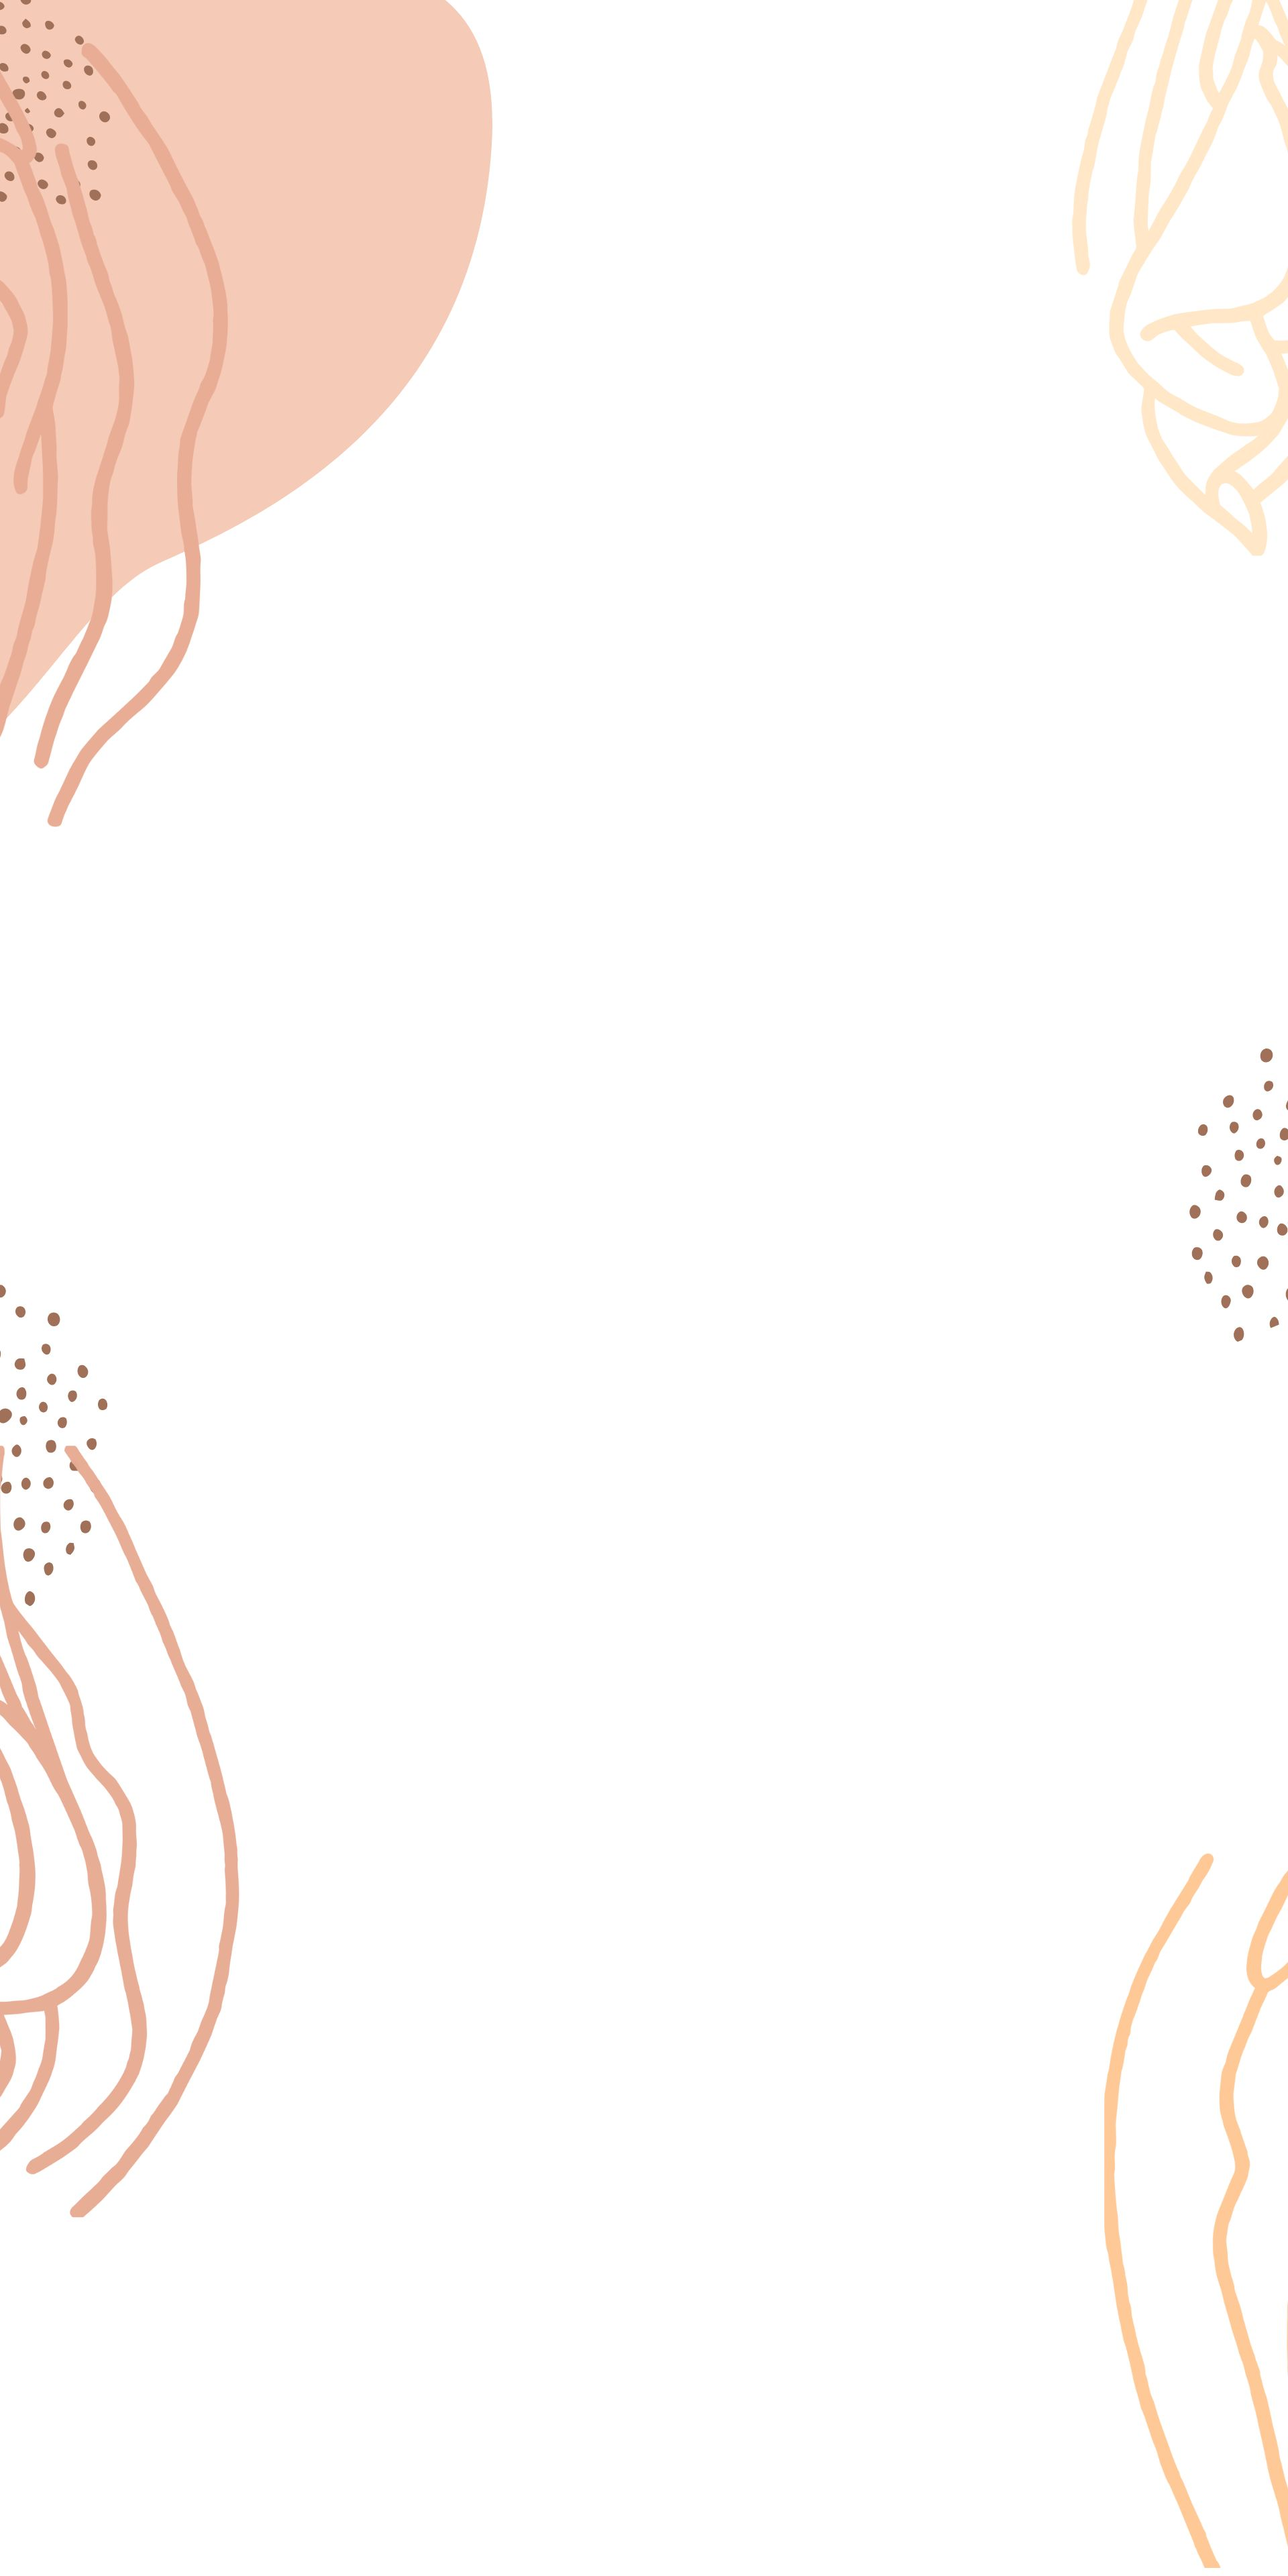
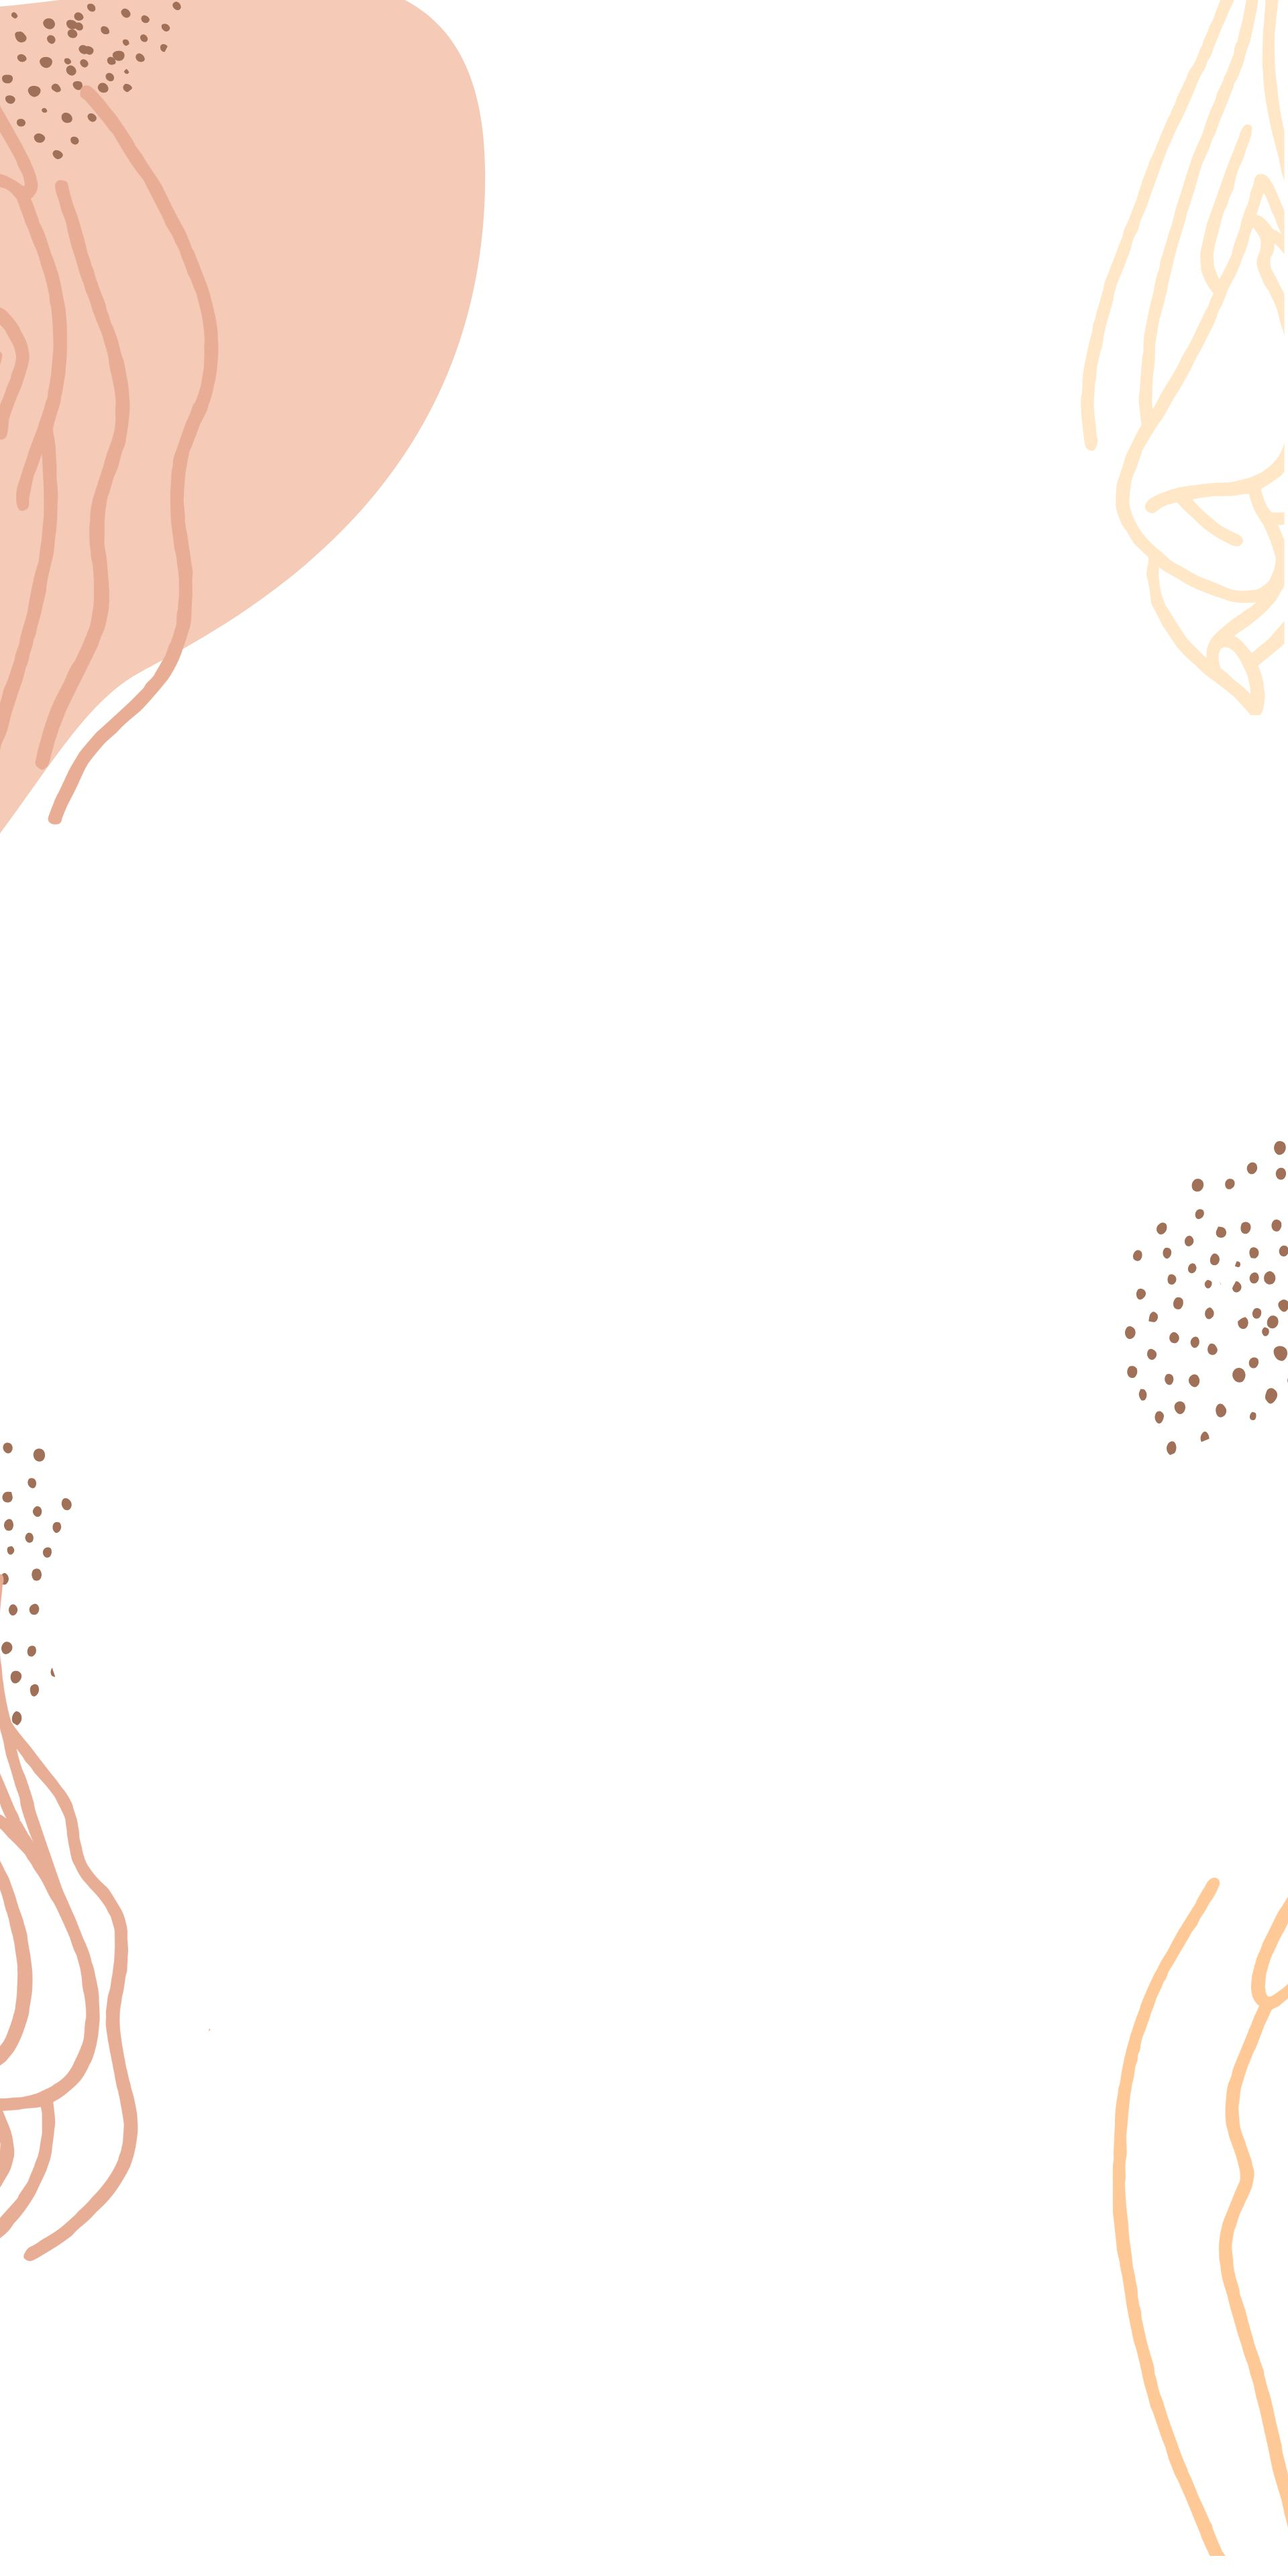
Improve modal and bckg ui

diff --git a/src/Images/Thumbnails/content.js b/src/Images/Thumbnails/content.js
@@ -2,53 +2,60 @@ export const contentManifesto = [
 	{
 		title: "F.Y.V. Manifesto",
 		content: (
-			<p>
-				<span>📜 F.Y.V. Manifesto - Our 3 Pillars</span>
-				<br></br>
-				<br></br>
-				✌🏽 1. Praise vulva diversity
-				<br></br>
-				By ending shame and insecurity
-				<br></br>
-				<br></br>
-				We want to provoke reflections on where our “normal and beautiful” standards came from. Our aesthetic preferences are intrinsically based on what we’ve been presented as visually pleasant by society. And in a patriarchal and phallic-centred society, the vulva suffers from underrepresentation and misrepresentation. Predominantly being reduced to “vagina”, even the word vulva still needs to conquer its righteous space. We’re surrounded by male genitalia, but we barely see any vulvas, and when we do, it’s sadly an inaccurate version of it. We are not presented with enough models of the wide diversity of vulval possibilities. So unconsciously, we end up perceiving ourselves through distorted lenses that don’t serve or empower us. But we have the power to break through this distortion and see our beautifully unique true selves.				<br></br>
-			</p>
+			<div>
+				<p><span>📜 F.Y.V. Manifesto - Our 3 Pillars</span></p>
+				<p>
+					✌🏽 1. Praise vulva diversity
+					<br></br>
+					by ending shame and insecurity
+				</p>
+				<p>
+					We want to provoke reflections on where our “normal and beautiful” standards came from. Our aesthetic preferences are intrinsically based on what we’ve been presented as visually pleasant by society. And in a patriarchal and phallic-centred society, the vulva suffers from underrepresentation and misrepresentation.
+				</p>
+				<p>
+					Predominantly being reduced to “vagina”, even the word vulva still needs to conquer its righteous space. We’re surrounded by male genitalia, but we barely see any vulvas, and when we do, it’s sadly an inaccurate version of it. We are not presented with enough models of the wide diversity of vulval possibilities. So unconsciously, we end up perceiving ourselves through distorted lenses that don’t serve or empower us. But we have the power to break through this distortion and see our beautifully unique true selves.
+				</p>
+			</div>
 		),
 		imgList: [12],
 	},
 	{
 		title: "F.Y.V. Manifesto",
 		content: (
-			<p>
-				<span>📜 F.Y.V. Manifesto - Our 3 Pillars</span>
-				<br></br>
-				<br></br>
-				👄 2. Honour women’s sexuality
-				<br></br>
-				By revealing our innate potency
-				<br></br>
-				<br></br>
-				Most women don’t understand their bodies and the ones that do and therefore celebrate it for what it is, see their sexual liberation being condemned. We want to close the orgasm gap caused by sexual ignorance and repression. We can free ourselves from these societal constraints by embracing our bodies for all the wonderful experiences they can provide us, instead of their appearance. We want to raise awareness not only about how a vulva looks like, but what it can give us. Let’s not limit ourselves to extending the body positive movement to our vulvas, but also evolve from this to a body neutrality point of view. To praise function over form. Women have the only organ that is exclusively dedicated to pleasure, the clitoris. And honouring our ability to have multiple and powerful orgasms improves our physical and mental health. Research shows that high sexual arousal can aid chronic pain, sleep disorders, generalized anxiety and even depression. So libido is not just sexual energy, it’s vital energy. It’s a driving force that propels us to find and be our truest selves.
-				<br></br>
-			</p>
+			<div>
+				<p><span>📜 F.Y.V. Manifesto - Our 3 Pillars</span></p>
+				<p>
+					👄 2. Honour women’s sexuality
+					<br></br>
+					by revealing our innate potency
+				</p>
+				<p>
+					Most women don’t understand their bodies... The few that do and therefore celebrate it for what it is, see their sexual liberation being condemned. We want to close the orgasm gap caused by sexual ignorance and repression. We can free ourselves from these societal constraints by embracing our bodies for all the wonderful experiences they can provide us, instead of their appearance. We want to raise awareness not only about how a vulva looks like, but what it can give us.
+				</p>
+				<p>
+					Let’s not limit ourselves to extending the body positive movement to our vulvas, but also evolve from this to a body neutrality point of view. To praise function over form. Women have the only organ that is exclusively dedicated to pleasure, the clitoris. And honouring our ability to have multiple and powerful orgasms improves our physical and mental health. Research shows that high sexual arousal can aid chronic pain, sleep disorders, generalized anxiety and even depression. So libido is not just sexual energy, it’s vital energy. It’s a driving force that propels us to find and be our truest selves.
+				</p>
+			</div>
 		),
 		imgList: [11],
 	},
 	{
 		title: "F.Y.V. Manifesto",
 		content: (
-			<p>
-				<span>📜 F.Y.V. Manifesto - Our 3 Pillars</span>
-				<br></br>
-				<br></br>
-				✨ 3. Spark Societal Liberation
-				<br></br>
-				By advocating empowerment & self-love
-				<br></br>
-				<br></br>
-				As long as we’re not fully comfortable in our skin, we’re not comfortable with ourselves. This inner conflict manifests into insecurities in all spheres of our lives. Most of the human suffering can be broken down into our inability to love ourselves completely. In an image-obsessed culture, we’re brainwashed into the illusion that we’re our appearance. But our bodies are nothing more than a vehicle for us to work on ourselves, physically and emotionally. Embracing our bodies for what they truly are and not what they look like is an essential key to achieving self-love and unlocking our full potential. And once we do, we start having a deeper connection with ourselves and others. To accept others, we first need to accept ourselves. Emerging from an individual into a collective level, societal liberation starts within us.
-				<br></br>
-			</p>
+			<div>
+				<p><span>📜 F.Y.V. Manifesto - Our 3 Pillars</span></p>
+				<p>
+					✨ 3. Spark Societal Liberation
+					<br></br>
+					by advocating empowerment & self-love
+				</p>
+				<p>
+					As long as we’re not fully comfortable in our skin, we’re not comfortable with ourselves. This inner conflict manifests into insecurities in all spheres of our lives. Most human suffering can be broken down into our inability to love ourselves completely.
+				</p>
+				<p>
+					In an image-obsessed culture, we’re brainwashed into the illusion that we’re our appearance. But our bodies are nothing more than a vehicle for us to work on ourselves, physically and emotionally. Embracing our bodies for what they truly are and not what they look like is an essential key to achieving self-love and unlocking our full potential. And once we do, we start having a deeper connection with ourselves and others. To accept others, we first need to accept ourselves. Emerging from an individual into a collective level, societal liberation starts within us.
+				</p>
+			</div>
 		),
 		imgList: [10],
 	},
@@ -90,7 +97,7 @@ export const contentPosts = [
 		content:
 			(
 				<div>
-					<h3>To watch: Principles of Pleasure</h3>
+					<p><span>To watch: Principles of Pleasure</span></p>
 					<p>
 						We hope this Netflix series has gone mainstream already, but in case it has gone unnoticed by you, here is why we highly recommend The Principles of Pleasure.
 					</p>

diff --git a/src/Styles.scss b/src/Styles.scss
@@ -15,6 +15,7 @@ body {
     background-image: url('./Images/fyv_hero.jpg');
     background-attachment: fixed;
     background-size: 100% auto;
+    background-position-y: 5vh;
     font-family: 'Trispace', sans-serif;
     color: $color-grey-dark;
 
@@ -171,31 +172,29 @@ body {
         display: flex;
         padding: 1vw 1vw;
         max-height: 70vh;
+
+        @media only screen and (max-width: 769px) {
+            display: block;
+        }
+
+    }
+
+    &__text {
+        overflow: auto;
+        padding: 0rem 2rem;
         color: $color-grey-dark;
-        text-align: left;
 
         p {
-            overflow: auto;
-            padding: 0rem 2rem;
             margin-block-start: 0px;
         }
 
         @media only screen and (max-width: 769px) {
-            display: block;
-            text-align: center;
-
-            p {
-                overflow: unset;
-                padding: 2rem;
-                font-size: 2.7vmin;
-            }
+            padding: 7vw;
+            overflow: unset;
+            font-size: 3vmin;
         }
 
-        @media only screen and (max-width: 500px) {
-            text-align: left;
-        }
     }
-
 
     &__img {
         display: block;
@@ -213,12 +212,12 @@ body {
         }
     }
 
-
     &__close {
         text-align: right;
         color: $color-sand;
         font-size: 20px;
         font-weight: bold;
+        padding-right: 1vw;
 
         span {
             &:hover {

diff --git a/src/Components/modal.js b/src/Components/modal.js
@@ -39,7 +39,9 @@ export const Modal = ({ title, content, setModal, imgList }) => {
 						/>
 						{imgList.length > 1 && <div display="flex">{carousel}</div>}
 					</div>
-					{content}
+					<div className="modal__text">
+						{content}
+					</div>
 				</div>
 			</div>
 		</>
